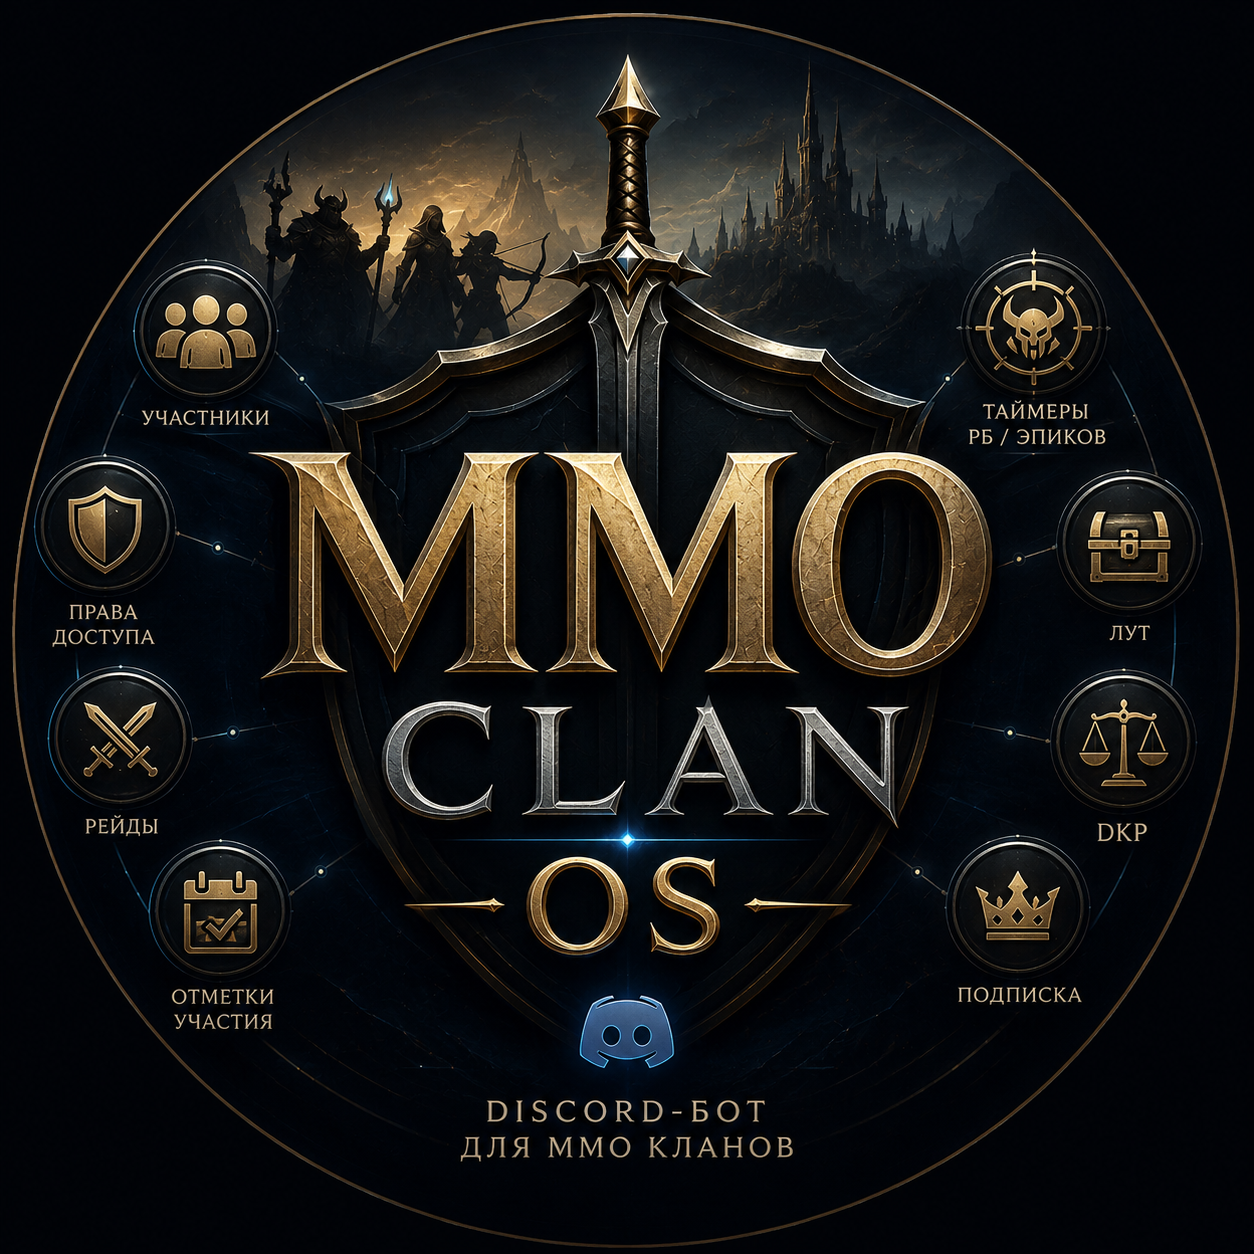
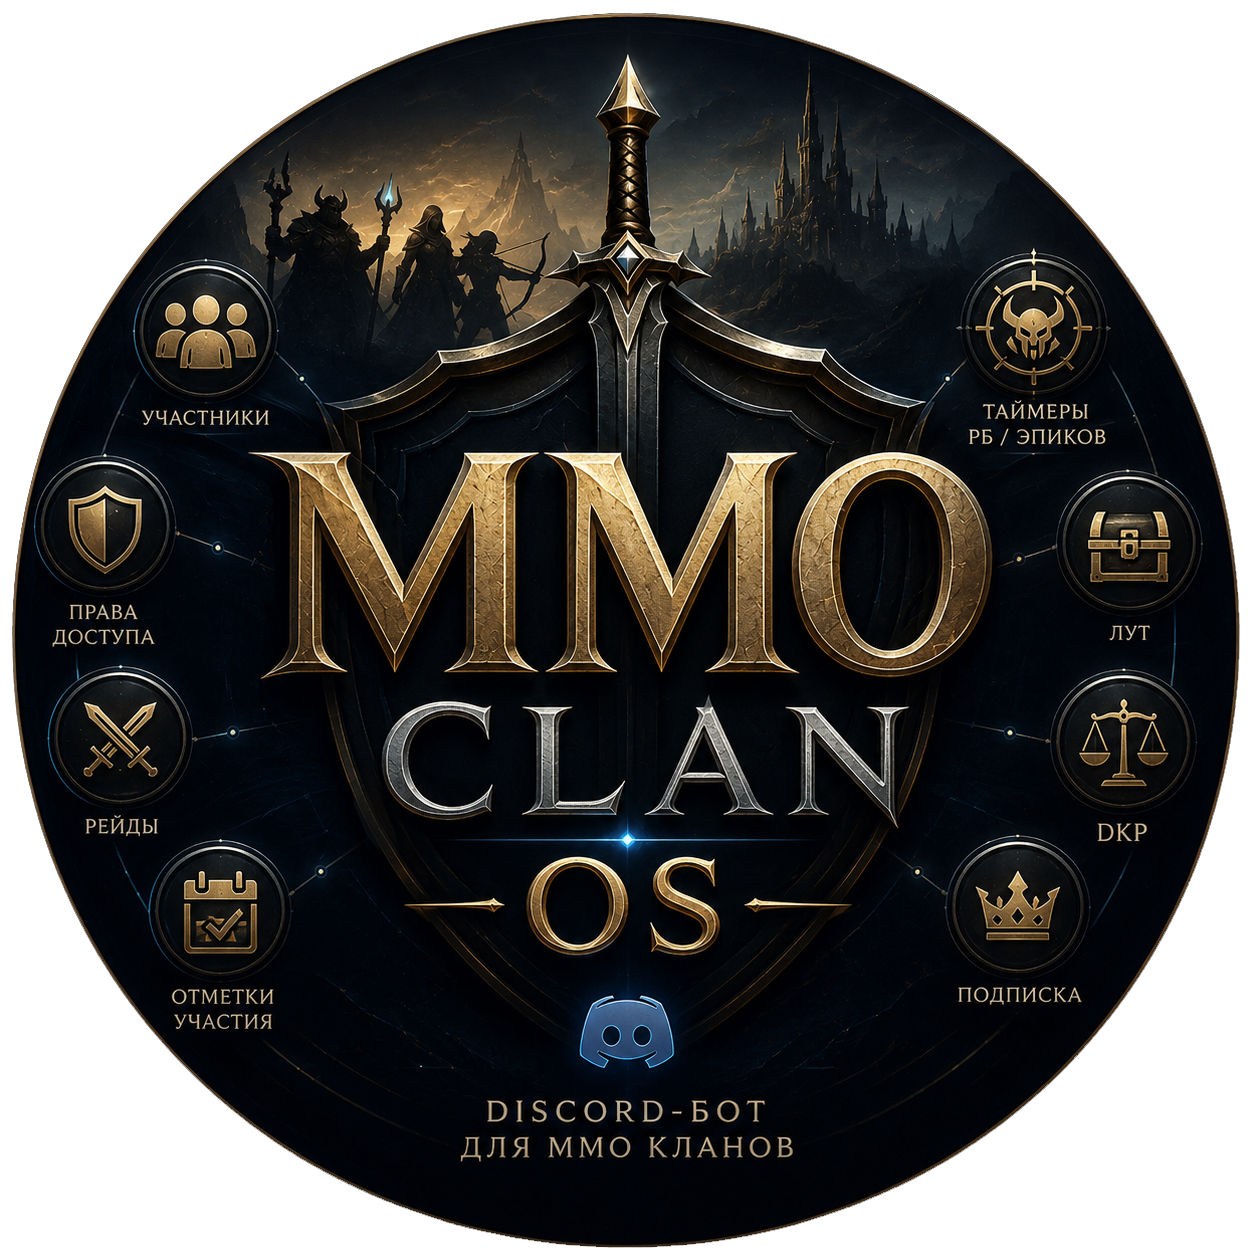
Обновить скриншоты и круглый логотип

Changed region(s): [[0.0, 0.0, 1.0, 1.0]]

diff --git a/assets/site.css b/assets/site.css
@@ -155,9 +155,21 @@ code {
   inset: 0;
   background:
     linear-gradient(90deg, rgba(15, 16, 20, 0.97) 0%, rgba(15, 16, 20, 0.82) 42%, rgba(15, 16, 20, 0.25) 100%),
-    url("./icon.png") center right / min(620px, 46vw) auto no-repeat,
     #101116;
   transform: scale(1.02);
+}
+
+.hero-media::before {
+  content: "";
+  position: absolute;
+  top: 50%;
+  right: clamp(1rem, 5vw, 5rem);
+  width: min(620px, 46vw);
+  aspect-ratio: 1;
+  border-radius: 50%;
+  background: url("./icon.png") center / cover no-repeat;
+  box-shadow: 0 0 90px rgba(242, 184, 75, 0.22);
+  transform: translateY(-50%);
 }
 
 .hero-overlay {
@@ -883,9 +895,16 @@ figcaption span,
   .hero-media {
     background:
       linear-gradient(180deg, rgba(15, 16, 20, 0.9), rgba(15, 16, 20, 0.72)),
-      url("./icon.png") center bottom / min(620px, 74vw) auto no-repeat,
       #101116;
     opacity: 0.92;
+  }
+
+  .hero-media::before {
+    top: auto;
+    right: 50%;
+    bottom: -6rem;
+    width: min(620px, 74vw);
+    transform: translateX(50%);
   }
 
   .intro-grid,
@@ -942,8 +961,12 @@ figcaption span,
   .hero-media {
     background:
       linear-gradient(180deg, rgba(15, 16, 20, 0.98), rgba(15, 16, 20, 0.9)),
-      url("./icon.png") center bottom / min(520px, 92vw) auto no-repeat,
       #101116;
+  }
+
+  .hero-media::before {
+    bottom: -3rem;
+    width: min(520px, 92vw);
   }
 
   .hero-stats {

diff --git a/index.html b/index.html
@@ -225,12 +225,19 @@
             <figure>
               <img src="./assets/screenshots/clan-panel.png" alt="Панель управления MMO Clan OS в Discord с кнопками для рейдов, DKP, лута и прав" loading="lazy">
               <figcaption>
-                <strong>Главная панель гильдии</strong>
-                <span>Все важные действия доступны кнопками, без набора длинных команд.</span>
+                <strong>Главная панель сообщества</strong>
+                <span>Компактная общая панель остается в админ-канале: быстрые действия и вход в личный кабинет.</span>
               </figcaption>
             </figure>
           </div>
           <div class="screenshot-grid" aria-label="Галерея интерфейса">
+            <figure>
+              <button class="screenshot-button" type="button" data-full="./assets/screenshots/personal-cabinet.png" data-caption="Мой кабинет" aria-label="Увеличить скриншот: Мой кабинет">
+                <img src="./assets/screenshots/personal-cabinet.png" alt="Личный кабинет MMO Clan OS с разделами рейдов, таймеров, очков, лута и прав" loading="lazy">
+                <span>Увеличить</span>
+              </button>
+              <figcaption>Мой кабинет</figcaption>
+            </figure>
             <figure>
               <button class="screenshot-button" type="button" data-full="./assets/screenshots/register-modal.png" data-caption="Регистрация участника" aria-label="Увеличить скриншот: Регистрация участника">
                 <img src="./assets/screenshots/register-modal.png" alt="Форма регистрации участника в MMO Clan OS" loading="lazy">

diff --git a/manual.html b/manual.html
@@ -188,6 +188,10 @@
               <img src="./assets/screenshots/clan-panel.png" alt="Общая панель MMO Clan OS в админ-канале Discord" loading="lazy">
               <figcaption>Одна общая панель для входа и быстрых действий. Основная работа идет через личный раздел <strong>Мой кабинет</strong>.</figcaption>
             </figure>
+            <figure class="wide-shot">
+              <img src="./assets/screenshots/personal-cabinet.png" alt="Личный кабинет MMO Clan OS в Discord" loading="lazy">
+              <figcaption><strong>Мой кабинет</strong> видит только тот, кто нажал кнопку. Внутри разделов есть навигация <strong>Назад</strong> и <strong>Обновить</strong>.</figcaption>
+            </figure>
             <figure class="wide-shot ephemeral-shot">
               <div class="shot-highlight">
                 <img src="./assets/screenshots/personal-ephemeral-message.png" alt="Личный ответ Discord со ссылкой Нажмите здесь, чтобы убрать его" loading="lazy">